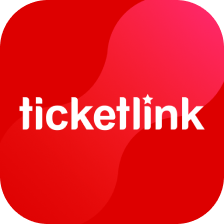
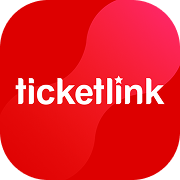
feat:v2.3.0 티켓판매처 로고 이미지

diff --git a/lib/view/ticket_detail/widget/ticket_sale_bottom_sheet_widget.dart b/lib/view/ticket_detail/widget/ticket_sale_bottom_sheet_widget.dart
@@ -23,6 +23,14 @@ class TicketSaleBottomSheetWidget extends StatelessWidget {
 
   @override
   Widget build(BuildContext context) {
+    final Map<String, String> providerLogos = {
+      "Yes24": "images/ticket_detail/yes24.png",
+      "멜론티켓": "images/ticket_detail/melon.png",
+      "인터파크": "images/ticket_detail/nol.png",
+      "NOL티켓": "images/ticket_detail/nol.png",
+      "티켓링크": "images/ticket_detail/ticketlink.png"
+    };
+
     return Container(
       width: double.infinity,
       height: 222,
@@ -49,8 +57,18 @@ class TicketSaleBottomSheetWidget extends StatelessWidget {
                     child: GestureDetector(
                       onTap: () => launchURL(ticketSaleUrls[index].url),
                       child: Column(children: [
-                        ImageLoadingWidget(
-                            width: 60, height: 60, radius: 15, imageUrl: ticketSaleUrls[index].providerImageUrl),
+                        providerLogos.containsKey(ticketSaleUrls[index].ticketProvider)
+                            ? ClipRRect(
+                                borderRadius: BorderRadius.circular(15.0),
+                                child: Image.asset(providerLogos[ticketSaleUrls[index].ticketProvider]!,
+                                    width: 60, height: 60),
+                              )
+                            : ImageLoadingWidget(
+                                width: 60,
+                                height: 60,
+                                radius: 15,
+                                imageUrl: ticketSaleUrls[index].providerImageUrl,
+                              ),
                         const SizedBox(height: 4),
                         Text(ticketSaleUrls[index].ticketProvider, style: button3_12Reg(f_70))
                       ]),
